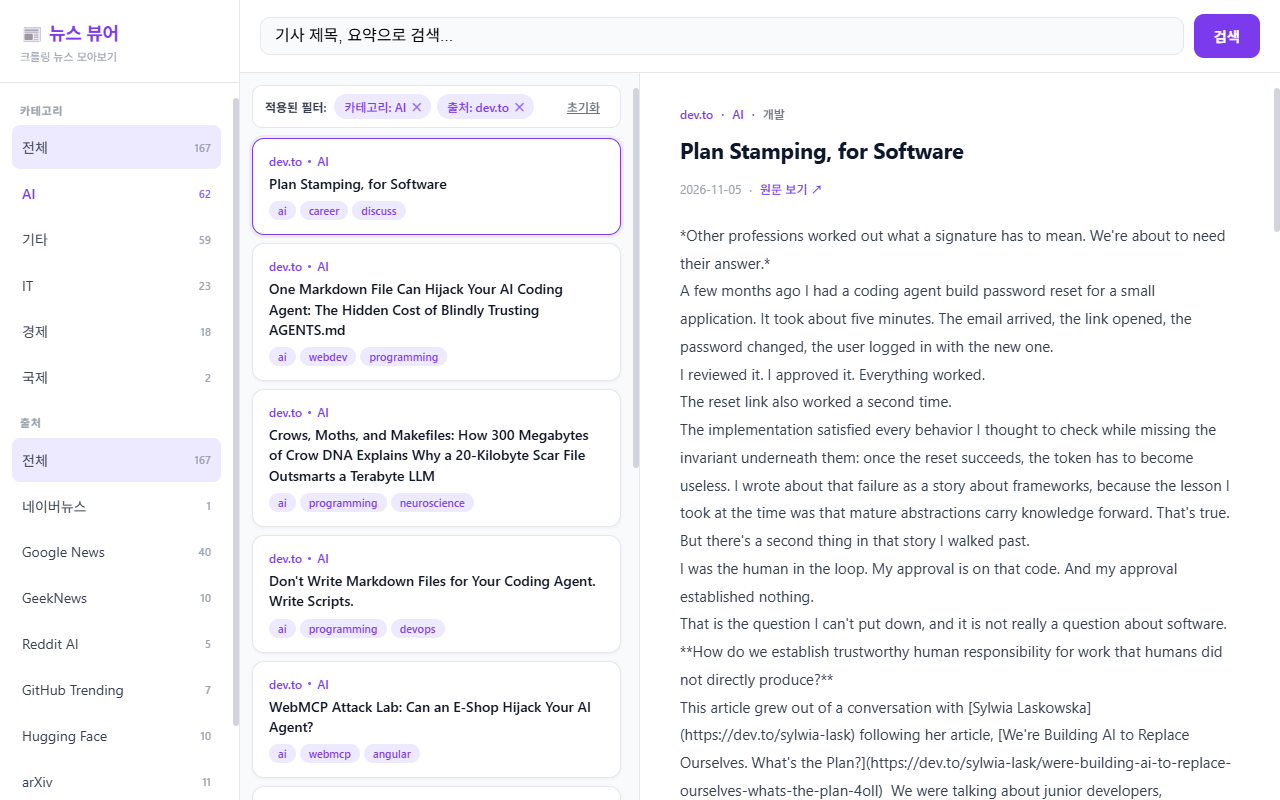
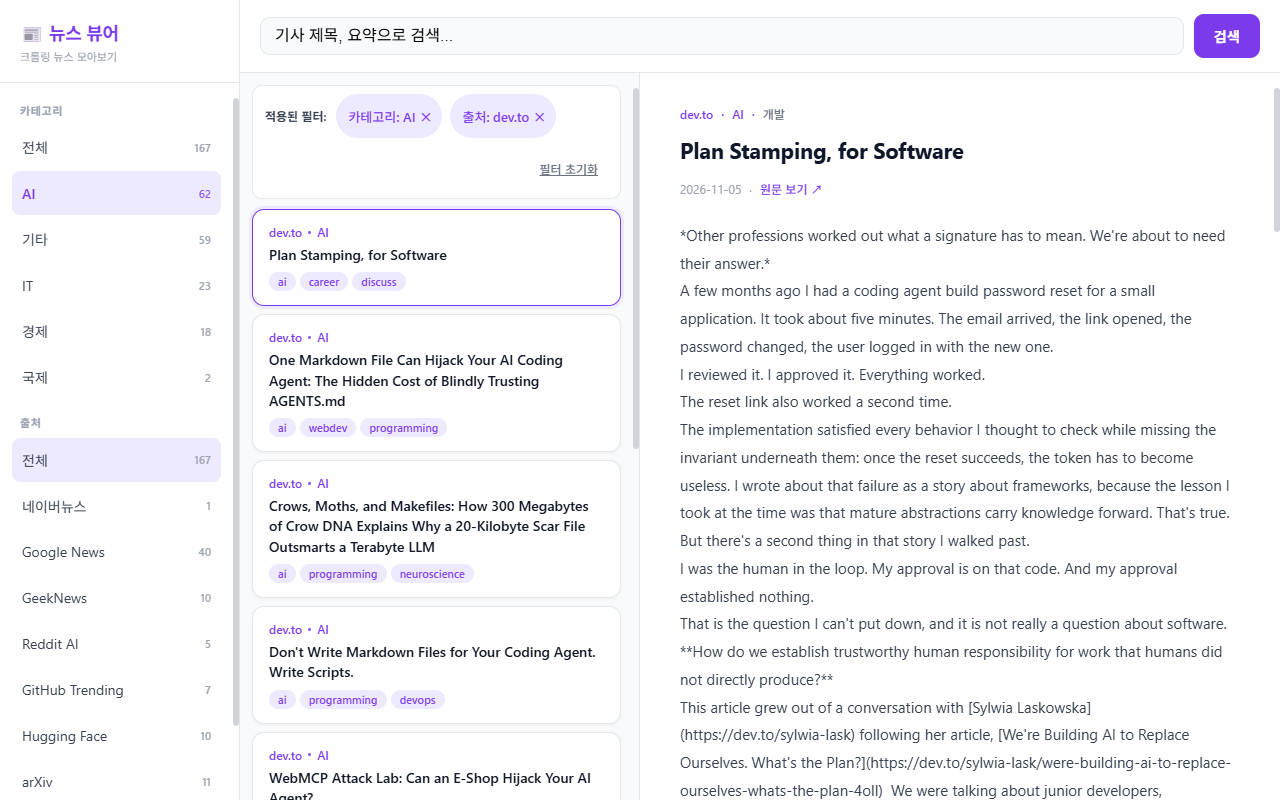
refactor: 활성 필터 터치 타깃 및 텍스트·색상 접근성 보완 (#37)

Changed region(s): [[0.1875, 0.1875, 0.5, 1.0], [0.1875, 0.125, 0.4688, 0.1562], [0.4062, 0.1875, 0.4688, 0.2188]]

diff --git a/news-viewer/frontend/src/App.jsx b/news-viewer/frontend/src/App.jsx
@@ -332,12 +332,14 @@ const s = {
     display: "flex",
     alignItems: "center",
     flexWrap: "wrap",
-    gap: 6,
+    gap: 8,
     padding: "8px 12px",
     marginBottom: 10,
     background: "#ffffff",
     borderRadius: 10,
     border: `1px solid ${BORDER}`,
+    maxWidth: "100%",
+    boxSizing: "border-box",
   },
   activeFilterLabel: {
     fontSize: 12,
@@ -349,12 +351,14 @@ const s = {
     display: "inline-flex",
     alignItems: "center",
     gap: 6,
-    padding: "4px 10px",
-    borderRadius: 16,
+    minHeight: 44,
+    padding: "8px 12px",
+    boxSizing: "border-box",
+    borderRadius: 22,
     background: ACCENT_LIGHT,
     color: ACCENT,
     border: "none",
-    fontSize: 12,
+    fontSize: 13,
     fontWeight: 500,
     cursor: "pointer",
     fontFamily: "inherit",
@@ -363,11 +367,16 @@ const s = {
     fontSize: 11,
     fontWeight: 700,
     lineHeight: 1,
-    color: ACCENT_MID,
+    color: "inherit",
   },
   filterResetBtn: {
-    padding: "4px 8px",
-    borderRadius: 6,
+    display: "inline-flex",
+    alignItems: "center",
+    justifyContent: "center",
+    minHeight: 44,
+    padding: "8px 10px",
+    boxSizing: "border-box",
+    borderRadius: 8,
     background: "transparent",
     color: TEXT_SECONDARY,
     border: "none",
@@ -572,7 +581,7 @@ export default function App() {
                     type="button"
                     style={s.activeFilterChip}
                     onClick={() => handleCategoryClick("")}
-                    aria-label={`카테고리 ${selectedCategory} 필터 해제`}
+                    aria-label={`카테고리: ${selectedCategory} 필터 해제`}
                   >
                     <span>카테고리: {selectedCategory}</span>
                     <span style={s.activeFilterRemove} aria-hidden="true">✕</span>
@@ -583,7 +592,7 @@ export default function App() {
                     type="button"
                     style={s.activeFilterChip}
                     onClick={() => handleSourceClick("")}
-                    aria-label={`출처 ${selectedSource} 필터 해제`}
+                    aria-label={`출처: ${selectedSource} 필터 해제`}
                   >
                     <span>출처: {selectedSource}</span>
                     <span style={s.activeFilterRemove} aria-hidden="true">✕</span>
@@ -594,7 +603,7 @@ export default function App() {
                   style={s.filterResetBtn}
                   onClick={handleResetFilters}
                 >
-                  초기화
+                  필터 초기화
                 </button>
               </div>
             )}
